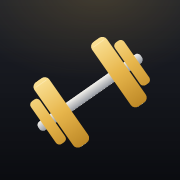
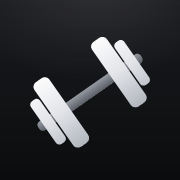
Ferrum 2.2: neue Akzentfarben statt Orange
- Standard-Akzent Violett, wählbar: Weiß, Limette, Türkis, Gold
- Über-Ziel-Anzeige neutral grau statt orange
- Protein-Blau etwas heller für klaren Kontrast
- Neutrales Silber-Icon passend zu jeder Farbe

Changed region(s): [[0.1667, 0.1944, 0.8333, 0.8333]]

diff --git a/css/style.css b/css/style.css
@@ -582,16 +582,34 @@ select.input {
   --text: #F5F5F7;
   --muted: #8D9099;
   --dim: #5A5D65;
-  --accent: #E8B65A;
-  --accent-2: #F0C878;
-  --ink: #17120A;
-  --gold: #E8B65A;
+  /* Akzentfarbe (Standard: Violett) – weitere Farben unten, wählbar in den Einstellungen */
+  --accent: #9D8CFF;
+  --accent-2: #B6A9FF;
+  --accent-soft: rgba(157, 140, 255, .16);
+  --ink: #120E2B;
+  --gold: var(--accent);
+  --over: #D5D7DD;      /* über dem Ziel: neutral statt Warnfarbe */
+  --prot: #4C9DFF;
   --r-lg: 20px;
   --r-md: 16px;
   --font: -apple-system, BlinkMacSystemFont, "SF Pro Text", "Segoe UI", Inter, Roboto, sans-serif;
   --font-display: -apple-system, BlinkMacSystemFont, "SF Pro Display", "Segoe UI", Inter, Roboto, sans-serif;
   --font-num: -apple-system, BlinkMacSystemFont, "SF Pro Display", "Segoe UI", Inter, Roboto, sans-serif;
 }
+/* Wählbare Akzentfarben */
+html[data-accent="mono"] { --accent: #F2F2F5; --accent-2: #FFFFFF; --accent-soft: rgba(255, 255, 255, .1); --ink: #0D0E10; }
+html[data-accent="lime"] { --accent: #C6F25C; --accent-2: #D7F88E; --accent-soft: rgba(198, 242, 92, .14); --ink: #142004; }
+html[data-accent="teal"] { --accent: #3FD8C4; --accent-2: #74E6D7; --accent-soft: rgba(63, 216, 196, .14); --ink: #03201C; }
+html[data-accent="gold"] { --accent: #E8B65A; --accent-2: #F0C878; --accent-soft: rgba(232, 182, 90, .14); --ink: #17120A; }
+.accent-dots { display: flex; gap: 12px; flex-wrap: wrap; }
+.accent-dot {
+  width: 44px; height: 44px; border-radius: 50%;
+  border: 2px solid transparent; outline: 2px solid transparent; outline-offset: 2px;
+  transition: transform .15s var(--ease), outline-color .2s;
+}
+.accent-dot.on { outline-color: var(--text); }
+.accent-dot:active { transform: scale(.9); }
+
 .num, .ring-center .v, .sum-kcal, .food-hero .kcal, .water-num, .kpi b, .stat b, .rest-time, .li-end .big { font-variant-numeric: tabular-nums; }
 
 /* Typografie */
@@ -676,7 +694,9 @@ select.input {
 .water { gap: 10px; }
 .water .water-num { font-size: 26px; margin-top: 2px; }
 .water-plus { background: rgba(94, 211, 234, .14); color: var(--water); }
-.meal-head .icon-btn.accent { background: rgba(232, 182, 90, .14); color: var(--accent); }
+.meal-head .icon-btn.accent { background: var(--accent-soft); color: var(--accent); }
+.streak { background: var(--accent-soft); }
+.streak.cold { background: var(--bg2); }
 .meal-head .icon-btn.plain { color: var(--muted); }
 .food-macros > div, .stat, .kpi { border-radius: 14px; }
 .food-macros b, .stat b { font-weight: 700; }

diff --git a/js/settings.js b/js/settings.js
@@ -11,6 +11,13 @@ const ACTIVITY = [
   [1.9, 'Extrem aktiv (körperliche Arbeit + Training)']
 ];
 const GOALS = [['bulk', 'Muskelaufbau'], ['keep', 'Halten'], ['cut', 'Diät']];
+const ACCENTS = [
+  ['violet', 'Violett', '#9D8CFF'],
+  ['mono', 'Weiß (schlicht)', '#F2F2F5'],
+  ['lime', 'Limette', '#C6F25C'],
+  ['teal', 'Türkis', '#3FD8C4'],
+  ['gold', 'Gold', '#E8B65A']
+];
 
 const Settings = {
   render() {
@@ -25,7 +32,15 @@ const Settings = {
       <div class="page-head"><h1 class="page-title">Einstellungen</h1></div>
       ${App.needsBackup() ? `<div class="inline-banner"><div class="txt"><b>Zeit für ein Backup</b>${lb ? 'Dein letztes Backup ist älter als 7 Tage.' : 'Du hast noch nie ein Backup gemacht.'}</div><button class="btn small primary" data-act="backup">Sichern</button></div>` : ''}
 
-      <div class="section-title" style="margin-top:0">Tagesziele</div>
+      <div class="section-title" style="margin-top:0">Akzentfarbe</div>
+      <div class="card">
+        <div class="accent-dots">
+          ${ACCENTS.map(a => `<button class="accent-dot ${(st.accent || 'violet') === a[0] ? 'on' : ''}" data-act="set-accent" data-v="${a[0]}" style="background:${a[2]}" aria-label="${a[1]}"></button>`).join('')}
+        </div>
+        <p class="hint" id="accent-name" style="margin-top:12px">${(ACCENTS.find(a => a[0] === (st.accent || 'violet')) || ACCENTS[0])[1]}</p>
+      </div>
+
+      <div class="section-title">Tagesziele</div>
       <div class="card">
         <div class="grid2">
           ${num('kcal', st.kcal, 'Kalorien', 'kcal')}
@@ -259,6 +274,15 @@ const Settings = {
       'backup': () => Settings.exportBackup(),
       'restore': () => $('#restore-file').click(),
       'csv': () => Settings.exportCSV(),
+      'set-accent': btn => {
+        S.settings.accent = btn.dataset.v;
+        Store.saveKV('settings');
+        App.applyAccent();
+        U.haptic();
+        $$('[data-act=set-accent]').forEach(b => b.classList.toggle('on', b === btn));
+        const a = ACCENTS.find(x => x[0] === btn.dataset.v);
+        const n = $('#accent-name'); if (n && a) n.textContent = a[1];
+      },
       'set-seg': btn => {
         S.settings[btn.dataset.k] = btn.dataset.v;
         Store.saveKV('settings');

diff --git a/js/app.js b/js/app.js
@@ -43,6 +43,9 @@ const App = {
     const ref = S.meta.lastBackup || S.meta.installedAt || Date.now();
     return Date.now() - ref > 7 * 86400000;
   },
+  applyAccent() {
+    document.documentElement.dataset.accent = S.settings.accent || 'violet';
+  },
   updateBackupDot() { $('#settings-dot').hidden = !App.needsBackup(); },
 
   isIOS() { return /iPhone|iPad|iPod/.test(navigator.userAgent) || (navigator.platform === 'MacIntel' && navigator.maxTouchPoints > 1); },
@@ -111,7 +114,7 @@ const App = {
         <div><h1 class="page-title">Heute</h1><div class="page-sub">${U.WD[now.getDay()].replace('.', '')}, ${now.getDate()}. ${U.MON[now.getMonth()]}</div></div>
         <div class="streak ${streak.n ? '' : 'cold'}" title="Tage in Folge getrackt">${U.icon.flame}${streak.n} ${streak.n === 1 ? 'Tag' : 'Tage'}</div>
       </div>
-      ${showInstall ? `<div class="inline-banner" style="background:rgba(255,198,43,.1)"><div class="txt"><b>Als App installieren</b>Tippe unten in Safari auf „Teilen“ und dann auf „Zum Home-Bildschirm“.</div><button class="icon-btn plain" data-act="hide-install" aria-label="Ausblenden">${U.icon.close}</button></div>` : ''}
+      ${showInstall ? `<div class="inline-banner"><div class="txt"><b>Als App installieren</b>Tippe unten in Safari auf „Teilen“ und dann auf „Zum Home-Bildschirm“.</div><button class="icon-btn plain" data-act="hide-install" aria-label="Ausblenden">${U.icon.close}</button></div>` : ''}
       ${App.needsBackup() ? `<div class="inline-banner"><div class="txt"><b>Backup fällig</b>${S.meta.lastBackup ? 'Dein letztes Backup ist älter als 7 Tage.' : 'Sichere deine Daten einmal pro Woche.'}</div><button class="btn small primary" data-act="backup">Sichern</button></div>` : ''}
       <div class="hero-rings">
         ${big}
@@ -230,6 +233,7 @@ const App = {
         <p style="color:#8E95A3">Schließe die App komplett und öffne sie erneut.</p></div>`;
       return;
     }
+    App.applyAccent();
     App.bind();
     App.go('today');
     Train.resume();

diff --git a/js/nutrition.js b/js/nutrition.js
@@ -137,7 +137,7 @@ const Nutri = {
           <div class="sum-kcal">${U.n(tot.kcal)} <small>/ ${U.n(st.kcal)} kcal</small></div>
           <div class="sum-rest">${rest >= 0 ? 'übrig' : 'über Ziel'}<b style="color:${rest >= 0 ? 'var(--text)' : 'var(--over)'}">${U.n(Math.abs(rest))}</b></div>
         </div>
-        ${bar(tot.kcal, st.kcal, tot.kcal > st.kcal * 1.05 ? 'var(--over)' : 'var(--gold)')}
+        ${bar(tot.kcal, st.kcal, tot.kcal > st.kcal * 1.05 ? 'var(--over)' : 'var(--accent)')}
         <div class="macro-bars">
           <div><div class="mb-label">Protein <b>${U.n(tot.p)}/${st.protein}</b></div>${bar(tot.p, st.protein, 'var(--prot)')}</div>
           <div><div class="mb-label">Kohlenh. <b>${U.n(tot.c)}/${st.carbs}</b></div>${bar(tot.c, st.carbs, 'var(--carb)')}</div>

diff --git a/index.html b/index.html
@@ -19,17 +19,6 @@
 <body>
   <div id="splash"><img src="icons/icon-180.png" alt=""><span>Ferrum</span></div>
 
-  <!-- Gold-Verlauf für Diagramme und Ringe -->
-  <svg width="0" height="0" style="position:absolute" aria-hidden="true">
-    <defs>
-      <linearGradient id="g-gold" x1="0" y1="0" x2="1" y2="1">
-        <stop offset="0" stop-color="#F7DA8C"/>
-        <stop offset=".5" stop-color="#E7B64C"/>
-        <stop offset="1" stop-color="#C9932E"/>
-      </linearGradient>
-    </defs>
-  </svg>
-
   <div id="app">
     <div id="banner-area"></div>
 

diff --git a/js/utils.js b/js/utils.js
@@ -326,7 +326,8 @@ const U = {
   confetti() {
     const box = document.createElement('div');
     box.className = 'confetti';
-    const colors = ['#F7DA8C', '#E7B64C', '#C9932E', '#F4F0E8', '#5B8CFF', '#3CC48B'];
+    const acc = getComputedStyle(document.documentElement).getPropertyValue('--accent').trim() || '#9D8CFF';
+    const colors = [acc, acc, '#F5F5F7', '#4C9DFF', '#3CC48B', '#FF6B6B'];
     let html = '';
     for (let i = 0; i < 70; i++) {
       const left = Math.random() * 100;

diff --git a/js/db.js b/js/db.js
@@ -103,7 +103,7 @@ function defaultSettings() {
   return Object.assign(base, {
     kcal: g.kcal, protein: g.protein, carbs: g.carbs, fat: g.fat,
     waterGoal: 3000, glass: 250,
-    rest: 120, sound: true, haptics: true, bar: 20
+    rest: 120, sound: true, haptics: true, bar: 20, accent: 'violet'
   });
 }
 

diff --git a/sw.js b/sw.js
@@ -6,7 +6,7 @@
    Nur dann merkt das iPhone, dass es neue Dateien gibt.
    Deine Daten (IndexedDB) sind davon NICHT betroffen.
    ========================================================= */
-const VERSION = '2.1.0';
+const VERSION = '2.2.0';
 const CACHE = 'ferrum-' + VERSION;
 
 const ASSETS = [
